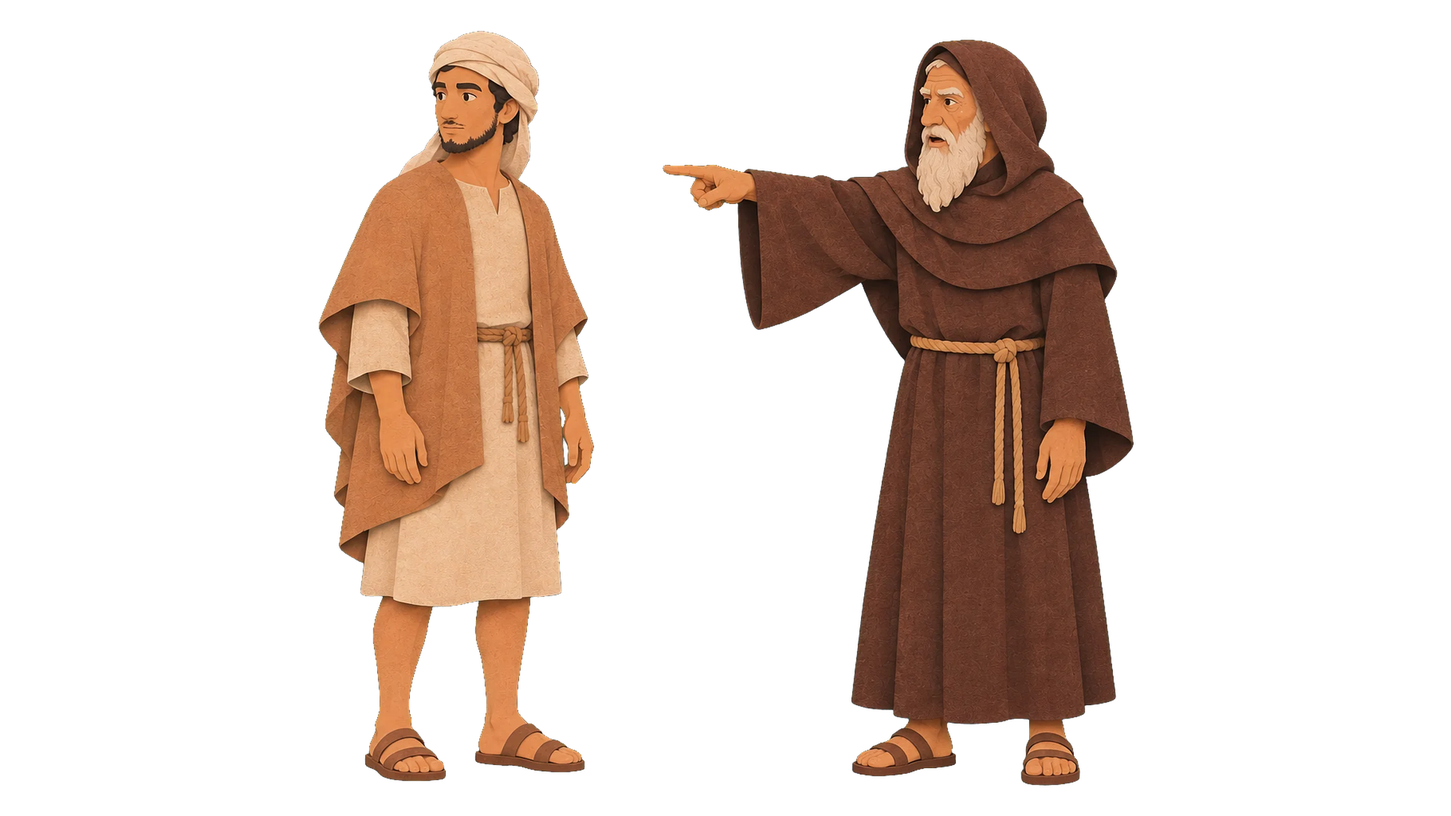
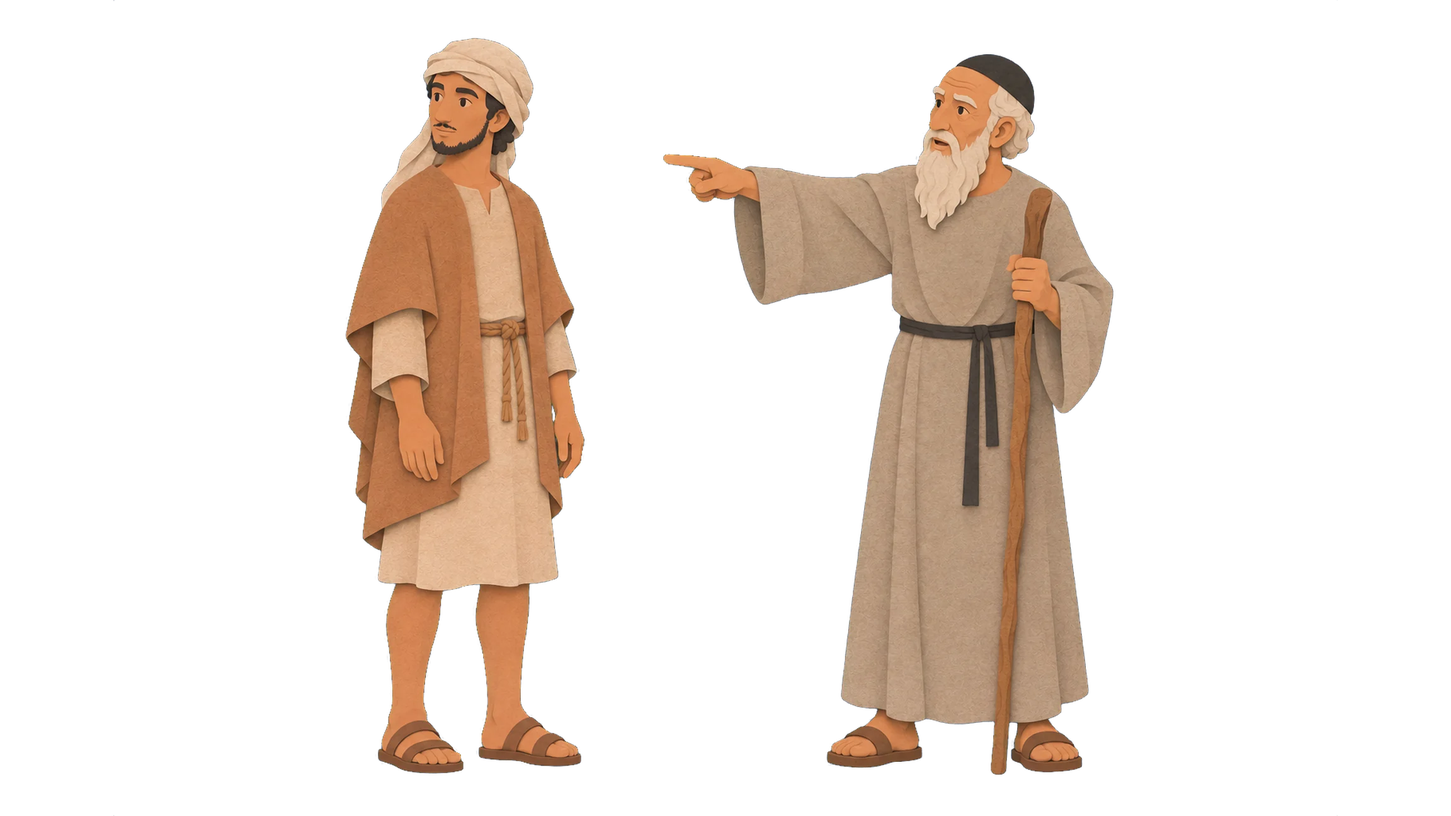
b08 rahibini Bahîrâ'dan ayır: yeni kart ve görsel
Claude-Session: https://claude.ai/code/session_01XKuXL44BHmu4akkywQgVHs

Changed region(s): [[0.4375, 0.0309, 0.7812, 0.9877], [0.2188, 0.0309, 0.4062, 0.9568]]

diff --git a/content/gorseller/istemler/b08-chatgpt.md b/content/gorseller/istemler/b08-chatgpt.md
@@ -23,90 +23,11 @@ Strict rules for every image: No minarets, no domes, no crescents, no arches, no
 Format for every image: landscape 3:2. Green-screen images are cut-out layers placed later over separate sky, mountain, ground and building layers: draw only what the message lists, complete and with green margin around it, and never draw any background, ground or shadow on them. Full-frame images will be cropped about 15% at the top and bottom and 8% on each side, so keep important elements inside that central area. Each message describes every person exactly (age, beard, clothing colours); the same named person must look identical in every image of this chat. Before outputting, always count people, arms, hands and legs and fix any error. Generate exactly one image per message. Do not reply with text beyond one short line. Reply 'Ready' now; I will send the scenes one by one.
 ```
 
-## Mesaj 1: b08-hatice-ev
-
-**Bu mesaja ekle** (`content/gorseller/istemler/referans/` klasöründen): `nesne-mekke-evler.png`
-
-*Kontrol: tam dolu görsel, perde yok; İbn Hişâm (s. 119), HATİCE (s. 465): Hatice zengin bir tacirdi, adamlarını malıyla ticarete gönderirdi. Evin görünüşü kaynakta yok; sade, geniş. Hatice yalnız perde ardında belli belirsiz gölge.*
-
-```text
-Scene b08-hatice-ev. ONE image, landscape 3:2. Flat paper cut-out style of the style reference: layered textured paper shapes, muted earth palette; not photorealistic, not a 3D render. The images attached to this message are references: character sheets show exactly how each named character must look (face, beard, clothing colours); object or building references (throne, sanctuary, houses) show exactly how that object must look; a wide shot shows the same scene. Match them exactly, but do not copy their composition or background.
-
-CAMERA: Medium-wide shot, camera at standing eye level, looking straight ahead (no high angle, no low angle). Full figures from head to feet.
-
-SUBJECT: Daytime, the wide courtyard of Khadija's house in Mecca, a plain but spacious two-storey house of stone and mudbrick like the attached reference. The courtyard is busy with trade: rolled bales of cloth, stacked leather bundles, a large balance scale on a wooden frame, sacks and clay jars; two workers tie up loads. On the upper floor, a small window is covered by a cloth curtain; behind it, only a faint, dark shadow of a standing woman can be guessed. Leave the courtyard gateway at the right open and clear, with empty ground in front of it, where a tall figure will be added later. Bare mountains of Mecca above the walls.
-
-PEOPLE AND ANIMALS: draw exactly these and nobody else (exactly 2 people in total). Keep every listed colour and feature exactly as written:
-1. 2 × two working men in plain undyed tunics and head cloths. Pose and place: at the left, bending over a load of bales, tying it with rope.
-
-LAYOUT: Full frame, filled edge to edge; no green screen. Keep the important content inside the central area: the top 15%, the bottom 15% and 8% on each side will be cropped.
-
-LIGHT: even, neutral daylight from the front-left, soft shadows under people, animals and objects so they sit on the ground; no glow, no dramatic light.
-
-DO NOT DRAW: the Prophet, any glowing figure, halo, Khadija's face, any woman's face, any figure in the gateway, gold, rich carpets, arches, domes, writing.
-
-BEFORE YOU OUTPUT, CHECK AND FIX: exactly 2 people; every person has one head, two arms, two hands with five fingers each and two legs; no extra, missing, merged or floating hands, arms or legs; every held object is held by a hand that belongs to a body; faces appear only where allowed above; anyone marked 'from behind' shows no face, profile or cheek; every clothing colour, beard colour and feature matches the description; no text, letters, crosses, minarets, domes, crescents or glow.
-
-Rules: faces only for people the prompt allows, in simple paper cut-out style; no extra people beyond what is described; the Prophet never appears unless this prompt explicitly asks for him; no other prophet in any form; no minarets, domes, crescents, arches or tiles; no text or watermarks. No soft golden-white glow or halo anywhere; torch flames are orange-red, daylight is neutral.
-```
-
-## Mesaj 2: b08-meysere
+## Mesaj 1: b08-rahip
 
 **Bu mesaja ekle** (`content/gorseller/istemler/referans/` klasöründen): `karakter-meysere.png`
 
-*Kontrol: yeşil perde; nesne kenarlara değmemeli; İbn Hişâm (s. 119): Meysere yolculukta onunla gidecekti.*
-
-```text
-Scene b08-meysere. ONE image, landscape 3:2. Flat paper cut-out style of the style reference: layered textured paper shapes, muted earth palette; not photorealistic, not a 3D render. The images attached to this message are references: character sheets show exactly how each named character must look (face, beard, clothing colours); object or building references (throne, sanctuary, houses) show exactly how that object must look; a wide shot shows the same scene. Match them exactly, but do not copy their composition or background.
-
-CAMERA: Medium-wide shot, camera at standing eye level, looking straight ahead (no high angle, no low angle). Full figures from head to feet.
-
-SUBJECT: Maysara stands beside a few tied bundles of goods, ready for the journey, looking respectfully towards the right, where someone stands at the gate.
-
-PEOPLE AND ANIMALS: draw exactly these and nobody else (exactly 1 person in total). Keep every listed colour and feature exactly as written:
-1. Maysara, a young servant man of about 25 with a short, sparse black beard; a plain undyed off-white head cloth tied simply; a knee-length undyed wool tunic and a short sand-brown cloak; a plain rope belt; simple sandals. Pose and place: standing at the left, three-quarter view facing right, one hand resting on the bundles, attentive.
-
-LAYOUT: Show every person and animal complete, from the top of the head (or head cloth) to the soles of the feet, with clear flat green space on all four sides (at least one tenth of the image width and height). Everyone stands on one and the same straight, horizontal foot line in the lower part of the image, at the same distance from the camera, arranged side by side from left to right. Never arrange figures in a line that recedes diagonally into the distance, and never place anyone higher in the image than the others. Draw NO ground, floor, cast shadow, horizon, rocks, plants, buildings, walls, doors, tents, mountains, sky or Kaaba: those are separate layers. Only the listed people, animals and hand-held objects, isolated on a perfectly flat, uniform chroma green background (#00B140), with no green tint on them. The only exception: three tied bundles of cloth and leather on the ground beside him, which are drawn.
-
-LIGHT: even, neutral daylight from the front-left, soft paper shadows within the figures only. No sunset or night colouring, no dramatic light, no glow, no halo, no light rays (the app adds the time-of-day tint).
-
-DO NOT DRAW: the Prophet, any glowing figure, halo, any other person, camels, ground, walls.
-
-BEFORE YOU OUTPUT, CHECK AND FIX: exactly 1 person; every person has one head, two arms, two hands with five fingers each and two legs; no extra, missing, merged or floating hands, arms or legs; every held object is held by a hand that belongs to a body; faces appear only where allowed above; anyone marked 'from behind' shows no face, profile or cheek; every clothing colour, beard colour and feature matches the description; no text, letters, crosses, minarets, domes, crescents or glow; the background is one flat, uniform green with no ground, horizon or shadow.
-
-Rules: faces only for people the prompt allows, in simple paper cut-out style; no extra people beyond what is described; the Prophet never appears unless this prompt explicitly asks for him; no other prophet in any form; no minarets, domes, crescents, arches or tiles; no text or watermarks. No soft golden-white glow or halo anywhere; torch flames are orange-red, daylight is neutral.
-```
-
-## Mesaj 3: b08-busra-agac
-
-*Kontrol: tam dolu görsel, perde yok; İbn Hişâm (s. 119-120): rahibin manastırına yakın bir ağacın gölgesine indi. BUSRÂ (s. 470): olay Busrâ'da. Ağacın ve manastırın görünüşü kaynakta yok; Busrâ bazalt taşıyla bilinir (yerelde kaynak yok, seçim).*
-
-```text
-Scene b08-busra-agac. ONE image, landscape 3:2. Flat paper cut-out style of the style reference: layered textured paper shapes, muted earth palette; not photorealistic, not a 3D render.
-
-CAMERA: Medium-wide shot, camera at standing eye level, looking straight ahead (no high angle, no low angle). Full figures from head to feet.
-
-SUBJECT: Daytime, the edge of a small town in southern Syria (Busra): at the left, a single large, old shade tree with a broad, low canopy and a wide patch of shade beneath it; at the right, a modest stone monastery building with a small doorway and a low wall, built of grey-black basalt stone. A few loaded camels kneel and rest some distance behind the tree. Leave the shade under the tree completely empty — no one sits or stands there; a tall figure will be added later. Leave the ground in front of the monastery doorway empty too.
-
-ANIMALS AND OBJECTS: draw exactly these and no people:
-1. about 5 × camels with loads. Pose and place: kneeling and resting in the middle distance behind the tree.
-
-LAYOUT: Full frame, filled edge to edge; no green screen. Keep the important content inside the central area: the top 15%, the bottom 15% and 8% on each side will be cropped.
-
-LIGHT: even, neutral daylight from the front-left, soft shadows under people, animals and objects so they sit on the ground; no glow, no dramatic light.
-
-DO NOT DRAW: the Prophet, any glowing figure, halo, any person, anyone under the tree, crosses, bells, church domes, icons, writing.
-
-BEFORE YOU OUTPUT, CHECK AND FIX: no people at all; every person has one head, two arms, two hands with five fingers each and two legs; no extra, missing, merged or floating hands, arms or legs; every held object is held by a hand that belongs to a body; faces appear only where allowed above; anyone marked 'from behind' shows no face, profile or cheek; every clothing colour, beard colour and feature matches the description; no text, letters, crosses, minarets, domes, crescents or glow.
-
-Rules: faces only for people the prompt allows, in simple paper cut-out style; no extra people beyond what is described; the Prophet never appears unless this prompt explicitly asks for him; no other prophet in any form; no minarets, domes, crescents, arches or tiles; no text or watermarks. No soft golden-white glow or halo anywhere; torch flames are orange-red, daylight is neutral.
-```
-
-## Mesaj 4: b08-rahip
-
-**Bu mesaja ekle** (`content/gorseller/istemler/referans/` klasöründen): `karakter-meysere.png`
-
-*Kontrol: yeşil perde; nesne kenarlara değmemeli; İbn Hişâm (s. 120), BUSRÂ (s. 470): rahip Meysere'ye ağacın altındakini sordu. Görünüşler kaynakta yok.*
+*Kontrol: yeşil perde; nesne kenarlara değmemeli; İbn Hişâm (s. 120), BUSRÂ (s. 470): rahip Meysere'ye ağacın altındakini sordu. Görünüşler kaynakta yok. 2. tur (2026-11-19): rahip Bahîrâ'ya benzediği için kart değişti (kukuletasız, açık gri cüppe).*
 
 ```text
 Scene b08-rahip. ONE image, landscape 3:2. Flat paper cut-out style of the style reference: layered textured paper shapes, muted earth palette; not photorealistic, not a 3D render. The images attached to this message are references: character sheets show exactly how each named character must look (face, beard, clothing colours); object or building references (throne, sanctuary, houses) show exactly how that object must look; a wide shot shows the same scene. Match them exactly, but do not copy their composition or background.
@@ -116,7 +37,7 @@ CAMERA: Medium-wide shot, camera at standing eye level, looking straight ahead (
 SUBJECT: The old monk stands in his doorway and speaks to Maysara, pointing towards the left with one hand, as if asking who is resting under the tree there; Maysara turns his head to look where he points.
 
 PEOPLE AND ANIMALS: draw exactly these and nobody else (exactly 2 people in total). Keep every listed colour and feature exactly as written:
-1. an old Christian monk of Syria with a long white beard; a plain dark-brown woollen robe and a dark hood; a simple cord belt; no cross, no jewellery. Pose and place: standing at the right, facing left, one arm stretched out, pointing left, an earnest look.
+1. an old Christian monk of Syria with a long white beard and short white hair; NO hood: bare head with a small round black cap; a long, plain robe of undyed light-grey wool with a thin black sash; a plain wooden walking staff; no cross, no jewellery. He must look clearly different from Bahira (who wears a dark-brown hood and dark-brown robe). Pose and place: standing at the right, facing left, one arm stretched out, pointing left, an earnest look.
 2. Maysara, a young servant man of about 25 with a short, sparse black beard; a plain undyed off-white head cloth tied simply; a knee-length undyed wool tunic and a short sand-brown cloak; a plain rope belt; simple sandals. Pose and place: standing at the left, body facing the monk, head turned back over his shoulder to the left.
 
 LAYOUT: Both stand side by side on one horizontal foot line in the lower part of the image. Draw NO ground, floor, cast shadow, horizon, rocks, plants, buildings, walls, doors, tents, mountains, sky or Kaaba: those are separate layers. Only the listed people, animals and hand-held objects, isolated on a perfectly flat, uniform chroma green background (#00B140), with no green tint on them.
@@ -126,207 +47,6 @@ LIGHT: even, neutral daylight from the front-left, soft paper shadows within the
 DO NOT DRAW: the Prophet, any glowing figure, halo, crosses, any other person, tree, building, ground.
 
 BEFORE YOU OUTPUT, CHECK AND FIX: exactly 2 people; every person has one head, two arms, two hands with five fingers each and two legs; no extra, missing, merged or floating hands, arms or legs; every held object is held by a hand that belongs to a body; faces appear only where allowed above; anyone marked 'from behind' shows no face, profile or cheek; every clothing colour, beard colour and feature matches the description; no text, letters, crosses, minarets, domes, crescents or glow; the background is one flat, uniform green with no ground, horizon or shadow.
-
-Rules: faces only for people the prompt allows, in simple paper cut-out style; no extra people beyond what is described; the Prophet never appears unless this prompt explicitly asks for him; no other prophet in any form; no minarets, domes, crescents, arches or tiles; no text or watermarks. No soft golden-white glow or halo anywhere; torch flames are orange-red, daylight is neutral.
-```
-
-## Mesaj 5: b08-amcalar
-
-**Bu mesaja ekle** (`content/gorseller/istemler/referans/` klasöründen): `karakter-ebu_talib.png`
-
-*Kontrol: yeşil perde; nesne kenarlara değmemeli; İbn Hişâm (s. 120): Hamza; HATİCE (s. 465): Ebû Tâlib ve kardeşleri. Anlatım tarafsız ('amcaları'); görselde iki amca. Ebû Tâlib 535 doğumlu (EBÛ TÂLİB) → ~61.*
-
-```text
-Scene b08-amcalar. ONE image, landscape 3:2. Flat paper cut-out style of the style reference: layered textured paper shapes, muted earth palette; not photorealistic, not a 3D render. The images attached to this message are references: character sheets show exactly how each named character must look (face, beard, clothing colours); object or building references (throne, sanctuary, houses) show exactly how that object must look; a wide shot shows the same scene. Match them exactly, but do not copy their composition or background.
-
-CAMERA: Medium-wide shot, camera at standing eye level, looking straight ahead (no high angle, no low angle). Full figures from head to feet.
-
-SUBJECT: Two uncles walk side by side through Mecca with calm, purposeful steps, as if going to ask for a bride: Abu Talib, now older, and Hamza. Leave a clear empty gap at the right of the pair, about one person wide, where a tall figure walking with them will be added later.
-
-PEOPLE AND ANIMALS: draw exactly these and nobody else (exactly 2 people in total). Keep every listed colour and feature exactly as written:
-1. Abu Talib, a man of about 42 with a full, short black beard; an off-white head cloth with a dark brown cord band; a cream tunic and a long olive-brown cloak with a thin dark border; brown sandals. Pose and place: walking at the left, facing right; he is now about 60, his beard mostly grey.
-2. Hamza ibn Abd al-Muttalib, a strong, broad-shouldered man of about 30 with a short black beard; an off-white head cloth with a dark cord band; a cream tunic and a long rust-brown cloak; a leather belt; brown sandals. Pose and place: walking beside him in the middle, facing right.
-
-LAYOUT: Both walk on one horizontal foot line in the lower part of the image; leave an empty gap about one person wide at their right. Draw NO ground, floor, cast shadow, horizon, rocks, plants, buildings, walls, doors, tents, mountains, sky or Kaaba: those are separate layers. Only the listed people, animals and hand-held objects, isolated on a perfectly flat, uniform chroma green background (#00B140), with no green tint on them.
-
-LIGHT: even, neutral daylight from the front-left, soft paper shadows within the figures only. No sunset or night colouring, no dramatic light, no glow, no halo, no light rays (the app adds the time-of-day tint).
-
-DO NOT DRAW: the Prophet, any glowing figure, halo, any figure in the gap, weapons, women, ground, buildings.
-
-BEFORE YOU OUTPUT, CHECK AND FIX: exactly 2 people; every person has one head, two arms, two hands with five fingers each and two legs; no extra, missing, merged or floating hands, arms or legs; every held object is held by a hand that belongs to a body; faces appear only where allowed above; anyone marked 'from behind' shows no face, profile or cheek; every clothing colour, beard colour and feature matches the description; no text, letters, crosses, minarets, domes, crescents or glow; the background is one flat, uniform green with no ground, horizon or shadow.
-
-Rules: faces only for people the prompt allows, in simple paper cut-out style; no extra people beyond what is described; the Prophet never appears unless this prompt explicitly asks for him; no other prophet in any form; no minarets, domes, crescents, arches or tiles; no text or watermarks. No soft golden-white glow or halo anywhere; torch flames are orange-red, daylight is neutral.
-```
-
-## Mesaj 6: b08-nikah
-
-**Bu mesaja ekle** (`content/gorseller/istemler/referans/` klasöründen): `b08-hatice-ev.png`, `nesne-mekke-evler.png`, `karakter-ebu_talib.png`
-
-*Kontrol: tam dolu görsel, perde yok; İbn Hişâm (s. 120): mehir yirmi genç dişi deve. Nikâhın biçimi kaynakta yok. Hatice çizilmez. 'b08-hatice-ev' önce üretilmeli.*
-
-```text
-Scene b08-nikah. ONE image, landscape 3:2. Flat paper cut-out style of the style reference: layered textured paper shapes, muted earth palette; not photorealistic, not a 3D render. The images attached to this message are references: character sheets show exactly how each named character must look (face, beard, clothing colours); object or building references (throne, sanctuary, houses) show exactly how that object must look; a wide shot shows the same scene. Match them exactly, but do not copy their composition or background.
-
-CAMERA: Medium-wide shot, camera at standing eye level, looking straight ahead (no high angle, no low angle). Full figures from head to feet.
-
-SUBJECT: Daytime, in front of Khadija's house in Mecca (plain stone and mudbrick house like the attached references): a small gathering of relatives, older men of Quraysh, stands in a loose half circle; from the left, young she-camels are led in on ropes as the bride gift. Calm, joyful, dignified. Leave a clear empty space at the centre, on the ground, about one person wide, where a tall figure will be added later.
-
-PEOPLE AND ANIMALS: draw exactly these and nobody else (exactly 8 people in total). Keep every listed colour and feature exactly as written:
-1. Abu Talib, a man of about 42 with a full, short black beard; an off-white head cloth with a dark brown cord band; a cream tunic and a long olive-brown cloak with a thin dark border; brown sandals. Pose and place: standing at the centre-left, facing right, now about 60 with a mostly grey beard.
-2. 5 × men of Quraysh: Arab men of mixed ages in simple 6th-century clothes: off-white or sand head cloths, plain tunics and long cloaks in muted brown, grey-blue, ochre and undyed wool; no bright colours, no jewellery. Pose and place: relatives standing at the right in a loose half circle, turned to the centre.
-3. about 20 × young she-camels with simple rope halters. Pose and place: led in from the left by two herdsmen, standing in a loose group.
-4. 2 × two herdsmen in plain undyed tunics. Pose and place: leading the camels at the left.
-
-LAYOUT: Full frame, filled edge to edge; no green screen. Keep the important content inside the central area: the top 15%, the bottom 15% and 8% on each side will be cropped.
-
-LIGHT: even, neutral daylight from the front-left, soft shadows under people, animals and objects so they sit on the ground; no glow, no dramatic light.
-
-DO NOT DRAW: the Prophet, any glowing figure, halo, Khadija's face, any woman's face, women, any figure in the empty centre, gold, jewellery, music, dancing, writing.
-
-BEFORE YOU OUTPUT, CHECK AND FIX: exactly 8 people; every person has one head, two arms, two hands with five fingers each and two legs; no extra, missing, merged or floating hands, arms or legs; every held object is held by a hand that belongs to a body; faces appear only where allowed above; anyone marked 'from behind' shows no face, profile or cheek; every clothing colour, beard colour and feature matches the description; no text, letters, crosses, minarets, domes, crescents or glow.
-
-Rules: faces only for people the prompt allows, in simple paper cut-out style; no extra people beyond what is described; the Prophet never appears unless this prompt explicitly asks for him; no other prophet in any form; no minarets, domes, crescents, arches or tiles; no text or watermarks. No soft golden-white glow or halo anywhere; torch flames are orange-red, daylight is neutral.
-```
-
-## Mesaj 7: b08-aile
-
-**Bu mesaja ekle** (`content/gorseller/istemler/referans/` klasöründen): `karakter-hatice.png`
-
-*Kontrol: tam dolu görsel, perde yok; İbn Hişâm (s. 120-121), HATİCE (s. 465): çocukları. Temsil kuralı: eşi ve çocukları yüzsüz. Oynatıcıda ton: false.*
-
-```text
-Scene b08-aile. ONE image, landscape 3:2. Flat paper cut-out style of the style reference: layered textured paper shapes, muted earth palette; not photorealistic, not a 3D render. The images attached to this message are references: character sheets show exactly how each named character must look (face, beard, clothing colours); object or building references (throne, sanctuary, houses) show exactly how that object must look; a wide shot shows the same scene. Match them exactly, but do not copy their composition or background.
-
-CAMERA: Medium-wide shot, camera at standing eye level, looking straight ahead (no high angle, no low angle). Full figures from head to feet.
-
-SUBJECT: Evening, inside a plain Meccan house lit by a single clay oil lamp on the floor: warm lamplight, reed mats, a few cushions of undyed wool, clay jars and a simple wooden chest. Several small children play quietly near the lamp, seen only from behind and in silhouette against the light; their faces are never visible. In the background at the left, a woman in a long wine-red-brown cloak sits with her back to the viewer, watching them. Leave a clear empty space beside the doorway at the right, where a tall figure will be added later.
-
-PEOPLE AND ANIMALS: draw exactly these and nobody else (exactly 5 people in total). Keep every listed colour and feature exactly as written:
-1. Khadija, a dignified woman ALWAYS seen from behind, in silhouette or completely in shadow, face never visible; wrapped in a long deep wine-red-brown cloak of fine wool with a narrow woven border, and a cream head covering that hides her hair and the sides of her face. Pose and place: sitting on a mat in the background at the left, seen from behind, face not visible.
-2. 4 × small children (girls and a little boy), seen only from behind or in dark silhouette, faces never visible, in simple tunics. Pose and place: sitting and playing around the lamp in the middle, backs to the viewer.
-
-LAYOUT: Full frame, filled edge to edge; no green screen. Keep the important content inside the central area: the top 15%, the bottom 15% and 8% on each side will be cropped.
-
-LIGHT: warm light from one small clay oil lamp on the floor only; the rest of the room in soft shadow. Faces stay in darkness or turned away.
-
-DO NOT DRAW: the Prophet, any glowing figure, halo, any visible face, any figure by the doorway, toys of modern kind, books, writing, rich carpets.
-
-BEFORE YOU OUTPUT, CHECK AND FIX: exactly 5 people; every person has one head, two arms, two hands with five fingers each and two legs; no extra, missing, merged or floating hands, arms or legs; every held object is held by a hand that belongs to a body; faces appear only where allowed above; anyone marked 'from behind' shows no face, profile or cheek; every clothing colour, beard colour and feature matches the description; no text, letters, crosses, minarets, domes, crescents or glow.
-
-Rules: faces only for people the prompt allows, in simple paper cut-out style; no extra people beyond what is described; the Prophet never appears unless this prompt explicitly asks for him; no other prophet in any form; no minarets, domes, crescents, arches or tiles; no text or watermarks. No soft golden-white glow or halo anywhere; torch flames are orange-red, daylight is neutral.
-```
-
-## Mesaj 8: b08-koleler
-
-**Bu mesaja ekle** (`content/gorseller/istemler/referans/` klasöründen): `karakter-zeyd_harise.png`
-
-*Kontrol: yeşil perde; nesne kenarlara değmemeli; İbn Hişâm (s. 160): Hakîm b. Hizâm Şam'dan köleler getirdi, Hatice Zeyd'i seçti. Zincir, kırbaç gibi şiddet öğesi çizilmez.*
-
-```text
-Scene b08-koleler. ONE image, landscape 3:2. Flat paper cut-out style of the style reference: layered textured paper shapes, muted earth palette; not photorealistic, not a 3D render. The images attached to this message are references: character sheets show exactly how each named character must look (face, beard, clothing colours); object or building references (throne, sanctuary, houses) show exactly how that object must look; a wide shot shows the same scene. Match them exactly, but do not copy their composition or background.
-
-CAMERA: Medium-wide shot, camera at standing eye level, looking straight ahead (no high angle, no low angle). Full figures from head to feet.
-
-SUBJECT: Hakim ibn Hizam has just arrived with a few young slaves from a journey; he stands beside them, presenting them. Among the young slaves stands Zayd, tired but upright, his eyes lowered.
-
-PEOPLE AND ANIMALS: draw exactly these and nobody else (exactly 4 people in total). Keep every listed colour and feature exactly as written:
-1. Hakim ibn Hizam, a prosperous merchant of about 35 with a trimmed black beard; a white head cloth with a dark cord band; a cream tunic and a long ochre-brown travelling cloak. Pose and place: standing at the left, facing right, one open hand gesturing towards the youths.
-2. Zayd ibn Haritha as a youth of about 16, slim, beardless, with short curly black hair partly under a plain cream head cloth; a plain undyed wool tunic to the knee and a light sand-coloured cloak; a simple cord belt; bare feet or plain sandals. Pose and place: standing in the middle of the youths, upright, eyes lowered.
-3. 2 × two young male slaves of about 16 to 18 in worn, plain undyed tunics. Pose and place: standing to the left and right of Zayd, heads slightly bowed.
-
-LAYOUT: All four stand side by side on one horizontal foot line in the lower part of the image. Draw NO ground, floor, cast shadow, horizon, rocks, plants, buildings, walls, doors, tents, mountains, sky or Kaaba: those are separate layers. Only the listed people, animals and hand-held objects, isolated on a perfectly flat, uniform chroma green background (#00B140), with no green tint on them.
-
-LIGHT: even, neutral daylight from the front-left, soft paper shadows within the figures only. No sunset or night colouring, no dramatic light, no glow, no halo, no light rays (the app adds the time-of-day tint).
-
-DO NOT DRAW: the Prophet, any glowing figure, halo, Khadija's face, any woman's face, chains, ropes on people, whips, wounds, women, ground, buildings.
-
-BEFORE YOU OUTPUT, CHECK AND FIX: exactly 4 people; every person has one head, two arms, two hands with five fingers each and two legs; no extra, missing, merged or floating hands, arms or legs; every held object is held by a hand that belongs to a body; faces appear only where allowed above; anyone marked 'from behind' shows no face, profile or cheek; every clothing colour, beard colour and feature matches the description; no text, letters, crosses, minarets, domes, crescents or glow; the background is one flat, uniform green with no ground, horizon or shadow.
-
-Rules: faces only for people the prompt allows, in simple paper cut-out style; no extra people beyond what is described; the Prophet never appears unless this prompt explicitly asks for him; no other prophet in any form; no minarets, domes, crescents, arches or tiles; no text or watermarks. No soft golden-white glow or halo anywhere; torch flames are orange-red, daylight is neutral.
-```
-
-## Mesaj 9: b08-harise
-
-**Bu mesaja ekle** (`content/gorseller/istemler/referans/` klasöründen): `karakter-zeyd_harise.png`
-
-*Kontrol: yeşil perde; nesne kenarlara değmemeli; İbn Hişâm (s. 160-161), ZEYD (s. 319): babası Hârise ve amcası Kâ'b fidyeyle geldi; Zeyd kalmayı seçti.*
-
-```text
-Scene b08-harise. ONE image, landscape 3:2. Flat paper cut-out style of the style reference: layered textured paper shapes, muted earth palette; not photorealistic, not a 3D render. The images attached to this message are references: character sheets show exactly how each named character must look (face, beard, clothing colours); object or building references (throne, sanctuary, houses) show exactly how that object must look; a wide shot shows the same scene. Match them exactly, but do not copy their composition or background.
-
-CAMERA: Medium-wide shot, camera at standing eye level, looking straight ahead (no high angle, no low angle). Full figures from head to feet.
-
-SUBJECT: Zayd's father Haritha and his brother, dusty from the road, have come to Mecca to take Zayd home. Haritha stretches out his hands towards his son, hopeful; Zayd stands a step apart, turned towards the right, where someone stands whom he has chosen to stay with. Leave a clear empty gap at the right of Zayd, about one person wide, where a tall figure will be added later.
-
-PEOPLE AND ANIMALS: draw exactly these and nobody else (exactly 3 people in total). Keep every listed colour and feature exactly as written:
-1. Haritha, Zayd's father, a weathered desert tribesman of about 45 with a greying black beard; a dusty dark head cloth; a worn grey-brown travelling cloak over an undyed tunic; a staff. Pose and place: standing at the left, facing right, both hands held out towards his son.
-2. Haritha's brother Ka'b, a desert tribesman of about 40 with a black beard, a dusty grey head cloth and a dark brown travelling cloak, holding a small leather pouch. Pose and place: standing just behind Haritha at the left.
-3. Zayd ibn Haritha as a youth of about 16, slim, beardless, with short curly black hair partly under a plain cream head cloth; a plain undyed wool tunic to the knee and a light sand-coloured cloak; a simple cord belt; bare feet or plain sandals. Pose and place: standing in the middle-right, body turned to the right towards the empty gap, head turned back to his father, gentle but decided.
-
-LAYOUT: All three stand on one horizontal foot line in the lower part of the image; leave an empty gap about one person wide at Zayd's right. Draw NO ground, floor, cast shadow, horizon, rocks, plants, buildings, walls, doors, tents, mountains, sky or Kaaba: those are separate layers. Only the listed people, animals and hand-held objects, isolated on a perfectly flat, uniform chroma green background (#00B140), with no green tint on them.
-
-LIGHT: even, neutral daylight from the front-left, soft paper shadows within the figures only. No sunset or night colouring, no dramatic light, no glow, no halo, no light rays (the app adds the time-of-day tint).
-
-DO NOT DRAW: the Prophet, any glowing figure, halo, any figure in the gap, coins spilling, weapons, women, ground, buildings.
-
-BEFORE YOU OUTPUT, CHECK AND FIX: exactly 3 people; every person has one head, two arms, two hands with five fingers each and two legs; no extra, missing, merged or floating hands, arms or legs; every held object is held by a hand that belongs to a body; faces appear only where allowed above; anyone marked 'from behind' shows no face, profile or cheek; every clothing colour, beard colour and feature matches the description; no text, letters, crosses, minarets, domes, crescents or glow; the background is one flat, uniform green with no ground, horizon or shadow.
-
-Rules: faces only for people the prompt allows, in simple paper cut-out style; no extra people beyond what is described; the Prophet never appears unless this prompt explicitly asks for him; no other prophet in any form; no minarets, domes, crescents, arches or tiles; no text or watermarks. No soft golden-white glow or halo anywhere; torch flames are orange-red, daylight is neutral.
-```
-
-## Mesaj 10: b08-zeyd-yuruyus
-
-**Bu mesaja ekle** (`content/gorseller/istemler/referans/` klasöründen): `karakter-zeyd_harise.png`
-
-*Kontrol: yeşil perde; nesne kenarlara değmemeli; İbn Hişâm (s. 160), ZEYD (s. 319): âzat edilip evlat edinildi, 'Zeyd b. Muhammed' diye anıldı. Yürüyüş sahnesi temsilî.*
-
-```text
-Scene b08-zeyd-yuruyus. ONE image, landscape 3:2. Flat paper cut-out style of the style reference: layered textured paper shapes, muted earth palette; not photorealistic, not a 3D render. The images attached to this message are references: character sheets show exactly how each named character must look (face, beard, clothing colours); object or building references (throne, sanctuary, houses) show exactly how that object must look; a wide shot shows the same scene. Match them exactly, but do not copy their composition or background.
-
-CAMERA: Medium-wide shot, camera at standing eye level, looking straight ahead (no high angle, no low angle). Full figures from head to feet.
-
-SUBJECT: Zayd walks calmly and contentedly through Mecca in the late afternoon, beside someone taller who walks at his left. Leave a clear empty gap at Zayd's left, about one person wide, where a tall figure will be added later.
-
-PEOPLE AND ANIMALS: draw exactly these and nobody else (exactly 1 person in total). Keep every listed colour and feature exactly as written:
-1. Zayd ibn Haritha as a youth of about 16, slim, beardless, with short curly black hair partly under a plain cream head cloth; a plain undyed wool tunic to the knee and a light sand-coloured cloak; a simple cord belt; bare feet or plain sandals. Pose and place: walking at the right, facing left, a calm, content look, slightly turned towards the empty gap at his left.
-
-LAYOUT: Zayd walks on a horizontal foot line in the lower part of the image; leave an empty gap about one person wide at his left. Draw NO ground, floor, cast shadow, horizon, rocks, plants, buildings, walls, doors, tents, mountains, sky or Kaaba: those are separate layers. Only the listed people, animals and hand-held objects, isolated on a perfectly flat, uniform chroma green background (#00B140), with no green tint on them.
-
-LIGHT: even, neutral daylight from the front-left, soft paper shadows within the figures only. No sunset or night colouring, no dramatic light, no glow, no halo, no light rays (the app adds the time-of-day tint).
-
-DO NOT DRAW: the Prophet, any glowing figure, halo, any figure in the gap, any other person, ground, buildings.
-
-BEFORE YOU OUTPUT, CHECK AND FIX: exactly 1 person; every person has one head, two arms, two hands with five fingers each and two legs; no extra, missing, merged or floating hands, arms or legs; every held object is held by a hand that belongs to a body; faces appear only where allowed above; anyone marked 'from behind' shows no face, profile or cheek; every clothing colour, beard colour and feature matches the description; no text, letters, crosses, minarets, domes, crescents or glow; the background is one flat, uniform green with no ground, horizon or shadow.
-
-Rules: faces only for people the prompt allows, in simple paper cut-out style; no extra people beyond what is described; the Prophet never appears unless this prompt explicitly asks for him; no other prophet in any form; no minarets, domes, crescents, arches or tiles; no text or watermarks. No soft golden-white glow or halo anywhere; torch flames are orange-red, daylight is neutral.
-```
-
-## Mesaj 11: b08-ali
-
-**Bu mesaja ekle** (`content/gorseller/istemler/referans/` klasöründen): `karakter-ebu_talib.png`
-
-*Kontrol: yeşil perde; nesne kenarlara değmemeli; İbn Hişâm (s. 159), ALİ (s. 371): kıtlıkta Efendimiz Ali'yi, Abbas Ca'fer'i aldı. Ebû Tâlib 535 doğumlu → ~605'te 70; Ali ~5 (ALİ s. 371).*
-
-```text
-Scene b08-ali. ONE image, landscape 3:2. Flat paper cut-out style of the style reference: layered textured paper shapes, muted earth palette; not photorealistic, not a 3D render. The images attached to this message are references: character sheets show exactly how each named character must look (face, beard, clothing colours); object or building references (throne, sanctuary, houses) show exactly how that object must look; a wide shot shows the same scene. Match them exactly, but do not copy their composition or background.
-
-CAMERA: Medium-wide shot, camera at standing eye level, looking straight ahead (no high angle, no low angle). Full figures from head to feet.
-
-SUBJECT: A year of famine in Mecca: in front of his house, the old Abu Talib stands in his doorway, tired and grateful. Al-Abbas has his hand on the shoulder of the boy Ja'far, ready to take him home. The little boy Ali stands at the right, looking up towards an empty space beside him. Two empty clay water jars lie on the dry ground. Leave a clear empty gap beside Ali at the far right, about one person wide, where a tall figure will be added later.
-
-PEOPLE AND ANIMALS: draw exactly these and nobody else (exactly 4 people in total). Keep every listed colour and feature exactly as written:
-1. Abu Talib, a man of about 42 with a full, short black beard; an off-white head cloth with a dark brown cord band; a cream tunic and a long olive-brown cloak with a thin dark border; brown sandals. Pose and place: standing at the left, facing right; he is now about 70, his beard white, a little stooped, leaning on a staff.
-2. al-Abbas ibn Abd al-Muttalib, a well-to-do, composed man of about 37 with a neat black beard; a white head cloth with a dark cord band; a fine cream tunic and a long dark green-grey cloak with a narrow border. Pose and place: standing at the centre-left, facing right, one hand on Ja'far's shoulder.
-3. Ja'far ibn Abi Talib as a boy of about 14, slim, beardless, with black hair under a small off-white head cloth; a plain cream tunic and a short brown cloak. Pose and place: standing beside Abbas, facing right.
-4. Ali ibn Abi Talib as a small boy of about 5, with short black hair, bare-headed; a simple knee-length off-white tunic; bare feet. Pose and place: standing at the centre-right, looking up to the right towards the empty gap.
-
-LAYOUT: All four stand on one horizontal foot line in the lower part of the image; leave an empty gap about one person wide at the far right, next to Ali. Draw NO ground, floor, cast shadow, horizon, rocks, plants, buildings, walls, doors, tents, mountains, sky or Kaaba: those are separate layers. Only the listed people, animals and hand-held objects, isolated on a perfectly flat, uniform chroma green background (#00B140), with no green tint on them. The only exception: two empty clay water jars lying on their sides near Abu Talib's feet, which are drawn.
-
-LIGHT: even, neutral daylight from the front-left, soft paper shadows within the figures only. No sunset or night colouring, no dramatic light, no glow, no halo, no light rays (the app adds the time-of-day tint).
-
-DO NOT DRAW: the Prophet, any glowing figure, halo, any figure in the gap, food, women, ground, buildings.
-
-BEFORE YOU OUTPUT, CHECK AND FIX: exactly 4 people; every person has one head, two arms, two hands with five fingers each and two legs; no extra, missing, merged or floating hands, arms or legs; every held object is held by a hand that belongs to a body; faces appear only where allowed above; anyone marked 'from behind' shows no face, profile or cheek; every clothing colour, beard colour and feature matches the description; no text, letters, crosses, minarets, domes, crescents or glow; the background is one flat, uniform green with no ground, horizon or shadow.
 
 Rules: faces only for people the prompt allows, in simple paper cut-out style; no extra people beyond what is described; the Prophet never appears unless this prompt explicitly asks for him; no other prophet in any form; no minarets, domes, crescents, arches or tiles; no text or watermarks. No soft golden-white glow or halo anywhere; torch flames are orange-red, daylight is neutral.
 ```
